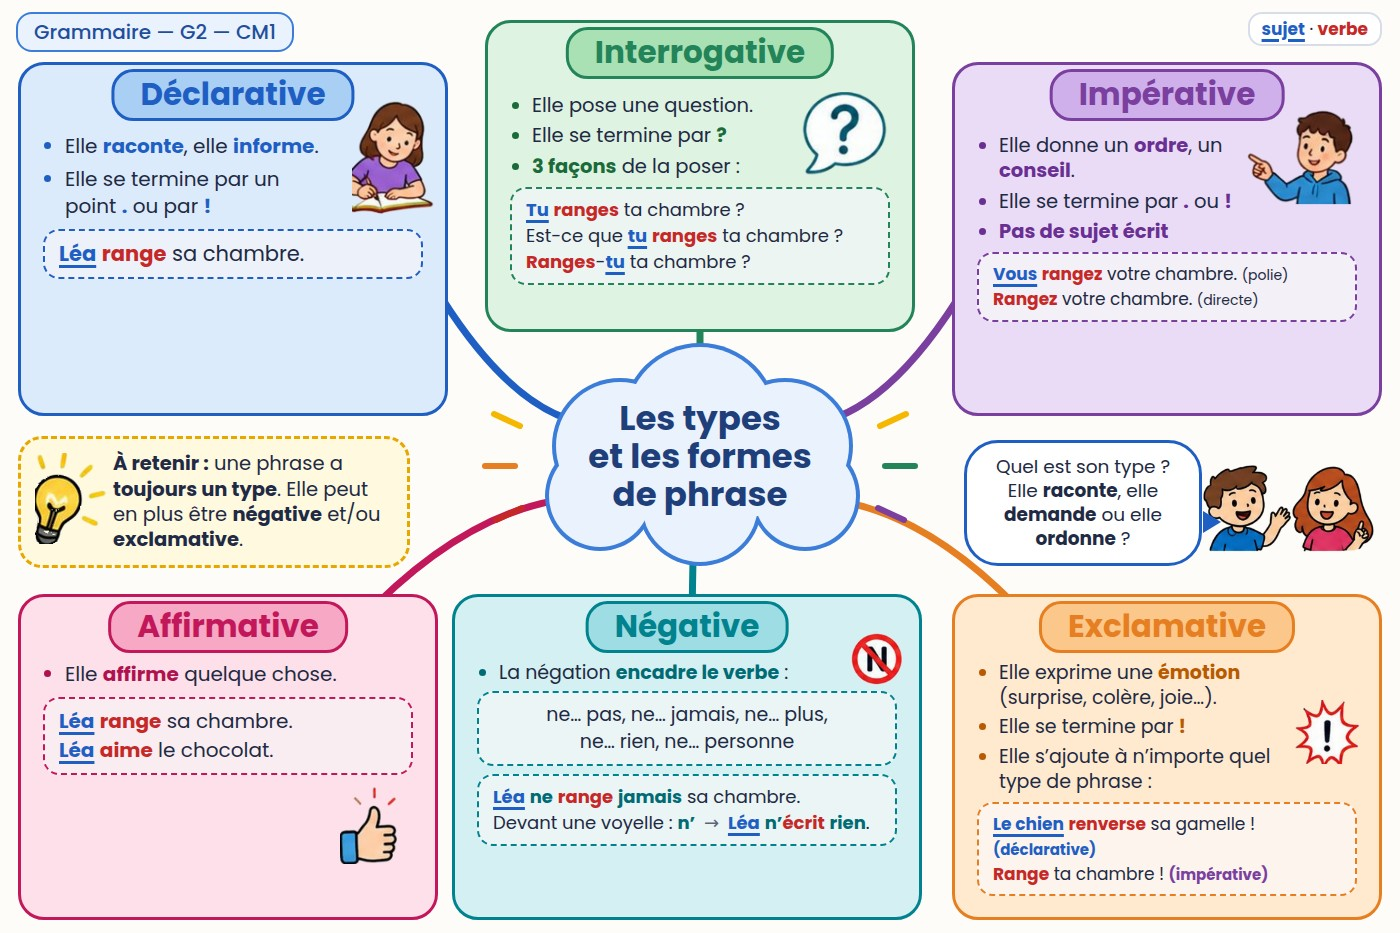
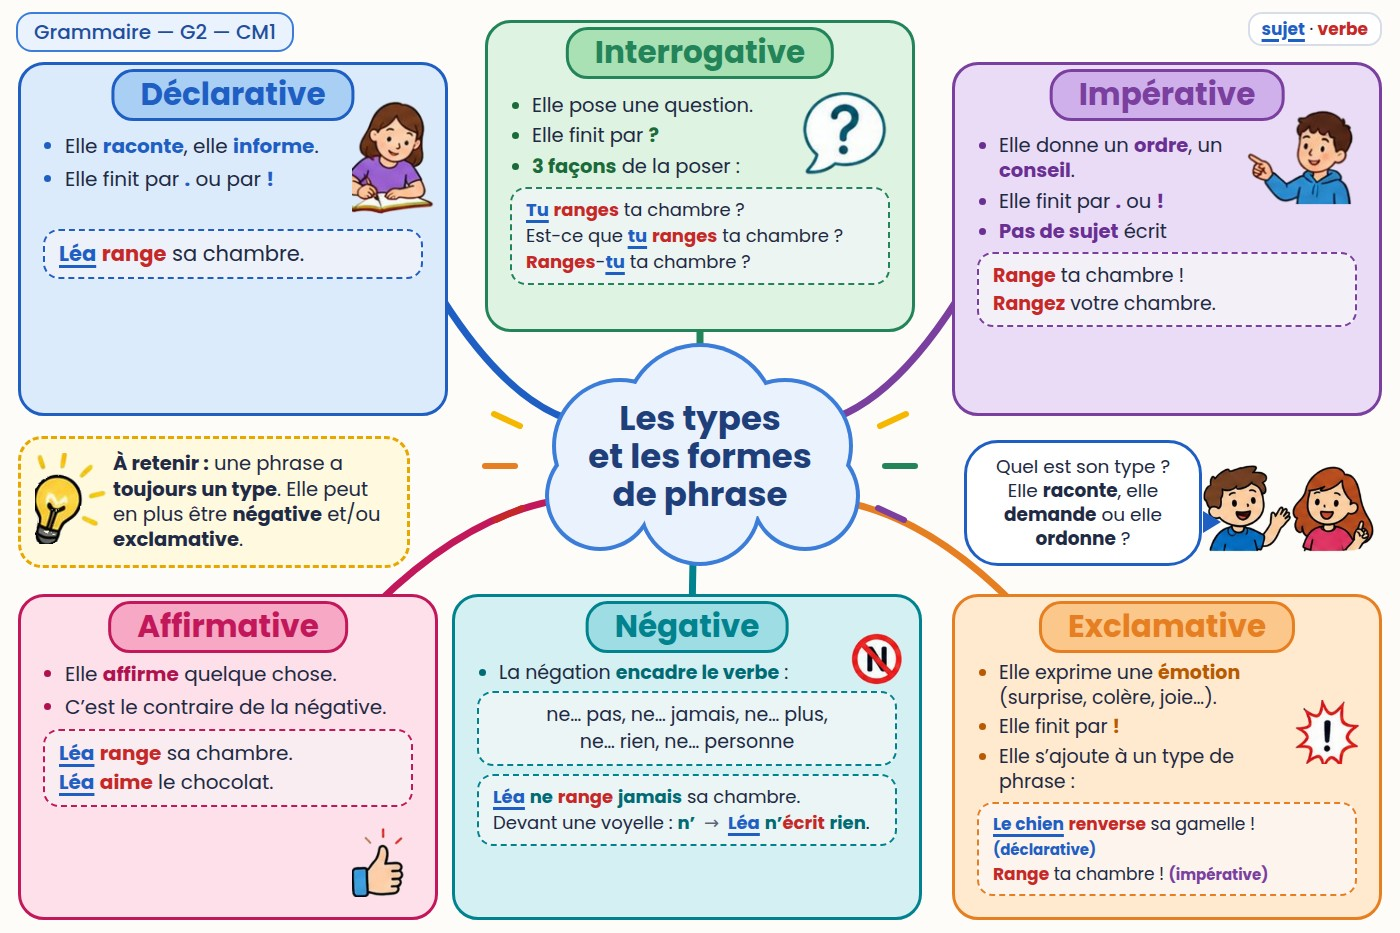
Leçons : en-tête de page retiré (redondant avec le nuage) ; G2 : textes des cadres plus courts et plus clairs (impérative sans exemple avec sujet)

diff --git a/index.html b/index.html
@@ -216,6 +216,7 @@ body.editing .body[contenteditable]{outline:2px dashed var(--etiq);outline-offse
 
 /* ===== Leçon interactive G1 ===== */
 [hidden]{display:none!important}
+.vh{position:absolute;width:1px;height:1px;overflow:hidden;clip:rect(0 0 0 0);white-space:nowrap}   /* titre de la leçon : lu par les lecteurs d'écran, redondant avec le nuage de la carte (13/11/2026) */
 .map{position:relative;border-radius:.6rem;overflow:hidden;box-shadow:0 2px 10px rgba(30,42,68,.12);background:#fff}
 .map img{display:block;width:100%;height:auto}
 .map,.mapw{container-type:inline-size}
@@ -827,7 +828,7 @@ function renderLessonMap(t){
   const first=sid=>L.ecrans.findIndex(e=>e.sec===sid);
   main.innerHTML=`<div class="sheet lesson" style="--fam:${f.couleur}">
     <div class="crumbs"><a href="#">Sommaire</a> › ${esc(f.nom)}</div>
-    <div class="head">${belt(t)}<div><h2>${esc(t.titre)}</h2><div class="meta">Clique sur une partie de la carte pour découvrir la leçon.</div></div></div>
+    <h2 class="vh">${esc(t.titre)}</h2>
     <div class="map"><img src="${IMG[t.id].carte}" alt="Carte mentale ${esc(code(t))} : ${esc(t.titre)}">${chipCM2(t)}${(L.masque||[]).map(z=>`<span class="masque" style="left:${z[0]}%;top:${z[1]}%;width:${z[2]}%;height:${z[3]}%" title="Pas au programme du CE2"></span>`).join('')}
       ${L.sections.map((s,k,a)=>{const z=s.zone,d=secDone(L,t.id,s.id),suiv=!d&&a.findIndex(x=>!secDone(L,t.id,x.id))===k;return `<a class="zone${d?' fait':suiv?' suivant':''}" href="#t=${t.id}/s:${s.id}" style="left:${z[0]}%;top:${z[1]}%;width:${z[2]}%;height:${z[3]}%;--z:${s.couleur}" aria-label="${esc(s.nom)}"><span class="num${d?' done':''}">${d?'✓':k+1}</span></a>`;}).join('')}
     </div>

diff --git a/outils/lecons/g2_cartes.py b/outils/lecons/g2_cartes.py
@@ -20,37 +20,37 @@ PALG = {'bleu': ('#1f5fc4', '#dcebfb', '#a9cff5', '#1f5fc4'), 'vert': ('#23845a'
 
 def carte(lid, chip, niveau):
     ce2, cm2 = niveau == 'CE2', niveau == 'CM2'  # CM1 : ni l'un ni l'autre
-    decl = '''<ul style="padding-right:104px;font-size:20px;margin-top:-14px">
+    decl = '''<ul style="padding-right:104px;font-size:20px;margin-top:-14px;min-height:88px">
   <li>Elle <b>raconte</b>, elle <b>informe</b>.</li>
-  <li>Elle se termine par un point <b>.</b> ou par <b>!</b></li></ul>''' + EX(f'{S.format("Léa")} {V.format("range")} sa chambre.', 21)
+  <li>Elle finit par <b>.</b> ou par <b>!</b></li></ul>''' + EX(f'{S.format("Léa")} {V.format("range")} sa chambre.', 21)
     if cm2:
-        decl = decl.replace('font-size:20px;margin-top:-14px', 'font-size:19px;line-height:1.25;margin-top:-14px') + \
+        decl = decl.replace('font-size:20px;margin-top:-14px', 'font-size:19px;line-height:1.25;margin-top:-14px;min-height:88px') + \
             '<p class="small" style="margin:10px 0 0;font-size:17px;line-height:1.4"><b>Phrase simple</b> : un seul <span class="v">verbe conjugué</span>.<br><b>Phrase complexe</b> : plusieurs verbes conjugués, reliés par <b>et</b>, <b>mais</b>, <b>car</b> ou une virgule.</p>'
     tl_title = 'Déclarative'
     if ce2:
-        inter = '''<ul style="font-size:19.5px;line-height:1.3;margin-top:-12px"><li>Elle pose une question.</li><li>Elle se termine par <b>?</b></li><li><b>2 façons</b> de la poser :</li></ul>''' + \
+        inter = '''<ul style="font-size:19.5px;line-height:1.3;margin-top:-12px"><li>Elle pose une question.</li><li>Elle finit par <b>?</b></li><li><b>2 façons</b> de la poser :</li></ul>''' + \
                 EX(f'{S.format("Tu")} {V.format("ranges")} ta chambre ?<br>Est-ce que {S.format("tu")} {V.format("ranges")} ta chambre ?', 19)
         inter_t = 'Interrogative'
     else:
-        inter = '''<ul style="font-size:19.5px;line-height:1.3;margin-top:-12px"><li>Elle pose une question.</li><li>Elle se termine par <b>?</b></li><li><b>3 façons</b> de la poser :</li></ul>''' + \
+        inter = '''<ul style="font-size:19.5px;line-height:1.3;margin-top:-12px"><li>Elle pose une question.</li><li>Elle finit par <b>?</b></li><li><b>3 façons</b> de la poser :</li></ul>''' + \
                 EX(f'{S.format("Tu")} {V.format("ranges")} ta chambre ?<br>Est-ce que {S.format("tu")} {V.format("ranges")} ta chambre ?<br>{V.format("Ranges")}-{S.format("tu")} ta chambre ?', 18)
         inter_t = 'Interrogative'
-    imp = '''<ul style="font-size:19.5px;padding-right:104px;line-height:1.3;margin-top:-14px"><li>Elle donne un <b>ordre</b>, un <b>conseil</b>.</li><li>Elle se termine par <b>.</b> ou <b>!</b></li><li><b>Pas de sujet écrit</b></li></ul>''' + \
-          EX(f'{S.format("Vous")} {V.format("rangez")} votre chambre. <span style="font-size:14px">(polie)</span><br>{V.format("Rangez")} votre chambre. <span style="font-size:14px">(directe)</span>', 17)
-    aff = '<ul style="font-size:20px;margin-top:-10px"><li>Elle <b>affirme</b> quelque chose.</li></ul>' + EX(f'{S.format("Léa")} {V.format("range")} sa chambre.<br>{S.format("Léa")} {V.format("aime")} le chocolat.', 20)
+    imp = '''<ul style="font-size:19.5px;padding-right:104px;line-height:1.3;margin-top:-14px"><li>Elle donne un <b>ordre</b>, un <b>conseil</b>.</li><li>Elle finit par <b>.</b> ou <b>!</b></li><li><b>Pas de sujet</b> écrit</li></ul>''' + \
+          EX(f'{V.format("Range")} ta chambre !<br>{V.format("Rangez")} votre chambre.', 19)
+    aff = '<ul style="font-size:20px;margin-top:-10px"><li>Elle <b>affirme</b> quelque chose.</li><li>C’est le contraire de la négative.</li></ul>' + EX(f'{S.format("Léa")} {V.format("range")} sa chambre.<br>{S.format("Léa")} {V.format("aime")} le chocolat.', 20)
     if ce2:
         neg = '''<ul style="font-size:19.5px;line-height:1.3;margin-top:-10px"><li>La négation <b>encadre le verbe</b> :</li></ul><div class="ex" style="font-size:21px;margin-top:4px;text-align:center"><b>ne</b> … <b>pas</b></div>''' + \
               EX(f'{S.format("Léa")} <b>ne</b> {V.format("range")} <b>pas</b> sa chambre.<br>Devant une voyelle : <b>n’</b> <span class="arrow">→</span> {S.format("Léa")} <b>n’</b>{V.format("aime")} <b>pas</b> le thé.', 18)
     else:
         neg = '''<ul style="font-size:19px;line-height:1.3;margin-top:-10px"><li>La négation <b>encadre le verbe</b> :</li></ul><div class="ex" style="font-size:19px;margin-top:4px;text-align:center">ne… pas, ne… jamais, ne… plus,<br>ne… rien, ne… personne</div>''' + \
               EX(f'{S.format("Léa")} <b>ne</b> {V.format("range")} <b>jamais</b> sa chambre.<br>Devant une voyelle : <b>n’</b> <span class="arrow">→</span> {S.format("Léa")} <b>n’</b>{V.format("écrit")} <b>rien</b>.', 18)
-    exc = '''<ul style="padding-right:84px;font-size:19px;line-height:1.3;margin-top:-10px"><li>Elle exprime une <b>émotion</b> (surprise, colère, joie…).</li><li>Elle se termine par <b>!</b></li><li>Elle s’ajoute à n’importe quel type de phrase :</li></ul>''' + \
+    exc = '''<ul style="padding-right:84px;font-size:19px;line-height:1.3;margin-top:-10px"><li>Elle exprime une <b>émotion</b> (surprise, colère, joie…).</li><li>Elle finit par <b>!</b></li><li>Elle s’ajoute à un type de phrase :</li></ul>''' + \
           EX(f'{S.format("Le chien")} {V.format("renverse")} sa gamelle ! <span style="font-size:15px;color:#1f5fc4;font-weight:700">(déclarative)</span><br>{V.format("Range")} ta chambre ! <span style="font-size:15px;color:#7b3fa0;font-weight:700">(impérative)</span>', 17)
     boxes = [
      dict(id='decl', col='bleu', pal=PALG['bleu'], geom=TL, ext=24, title=tl_title, figs=[('girl', 352, 98, 84)], html=decl, hstyle='top:30px'),
      dict(id='inter', col='vert', pal=PALG['vert'], geom=TC, ext=24, title=inter_t, hstyle='top:30px', html=inter, figs=[('q', 800, 92, 90)]),
      dict(id='imp', col='violet', pal=PALG['violet'], geom=TR, ext=24, title='Impérative', hstyle='top:30px', figs=[('boy', 1244, 106, 112)], html=imp),
-     dict(id='aff', ext=24, col='rose', pal=PALG['rose'], geom=AFF, title='Affirmative', hstyle='top:30px', html=aff, figs=[('thumb', 340, 785, 62)], style='padding-top:50px'),
+     dict(id='aff', ext=24, col='rose', pal=PALG['rose'], geom=AFF, title='Affirmative', hstyle='top:30px', html=aff, figs=[('thumb', 352, 826, 56)], style='padding-top:50px'),
      dict(id='neg', ext=24, col='turquoise', pal=PALG['turquoise'], geom=NEG, title='Négative', hstyle='top:30px', html=neg, figs=[('no', 850, 632, 54)], style='padding-top:50px'),
      dict(id='excl', ext=24, col='orange', pal=PALG['orange'], geom=EXC, title='Exclamative', hstyle='top:30px', html=exc, figs=[('burst', 1290, 700, 74)], style='padding-top:50px'),
     ]

diff --git a/CLAUDE.md b/CLAUDE.md
@@ -51,6 +51,7 @@ Site des leçons interactives (ceintures de français CM1) publié avec GitHub P
   une ceinture absente de la classe demandée ouvre la leçon d'une autre classe qui l'a (21/10/2026).
 - Sommaire par classe : boutons CE2 / CM1 / CM2 (adresse `#niveau=CE2`…). Une leçon sans champ `niveau`
   est rangée en CM1 ; pour une leçon d'une autre classe, ajouter `niveau:'CE2'` ou `niveau:'CM2'` dans `TRACES`.
+- Page d’une leçon (13/11/2026, demande de l’enseignante) : plus d’en-tête (ceinture + titre + « Clique sur une partie… »), redondant avec le titre du nuage ; le titre reste dans un `<h2 class="vh">` (lecteurs d’écran).
 - Cartes de G2 (13/11/2026) : les trois (`G2`, `G2-CE2`, `G2-CM2`) sont fabriquées par `outils/lecons/g2_cartes.py` (même apparence ; dessins des enfants et pictos = images découpées de la carte CM1 d’origine, `outils/img/g2/*.png`, jamais redessinés). `python3 outils/lecons/g2_cartes.py`, puis copier `outils/sortie/G2*_carte.jpeg` dans `images/`. Couleurs soutenues comme G1 (`PALG`, option `pal` de `build`, classe `.box.tint`) et mots forts / sujet (bleu souligné) / verbe (rouge) colorés ; éléments repris de G1 (note « À retenir » avec l’ampoule, duo d’enfants qui parle dans une bulle : images `outils/img/g2/ampoule.png`, `duo.png` découpées de G1, `extra_html` de `build`) ; nuage central descendu (`cloud_dy=26`), numéros des zones à l’intérieur du cadre (CSS `.zone .num`, en haut à gauche). Cadres pleins = zones cliquables : option `ext` de `build` (mapgen.py : le haut du cadre monte de `ext` px, le titre est posé à l’intérieur, `hstyle=top:30px`), zones de G2 = cadres exacts.
 - CM2 : mêmes numéros, mêmes couleurs, mêmes notions qu'en CM1 (choix de l'enseignante, octobre 2026).
   Une leçon CM2 (id `XX-CM2`, code affiché `XX`) = la leçon CM1 + les écrans de `CM2_PLUS` (étiquette « CM2 »,
